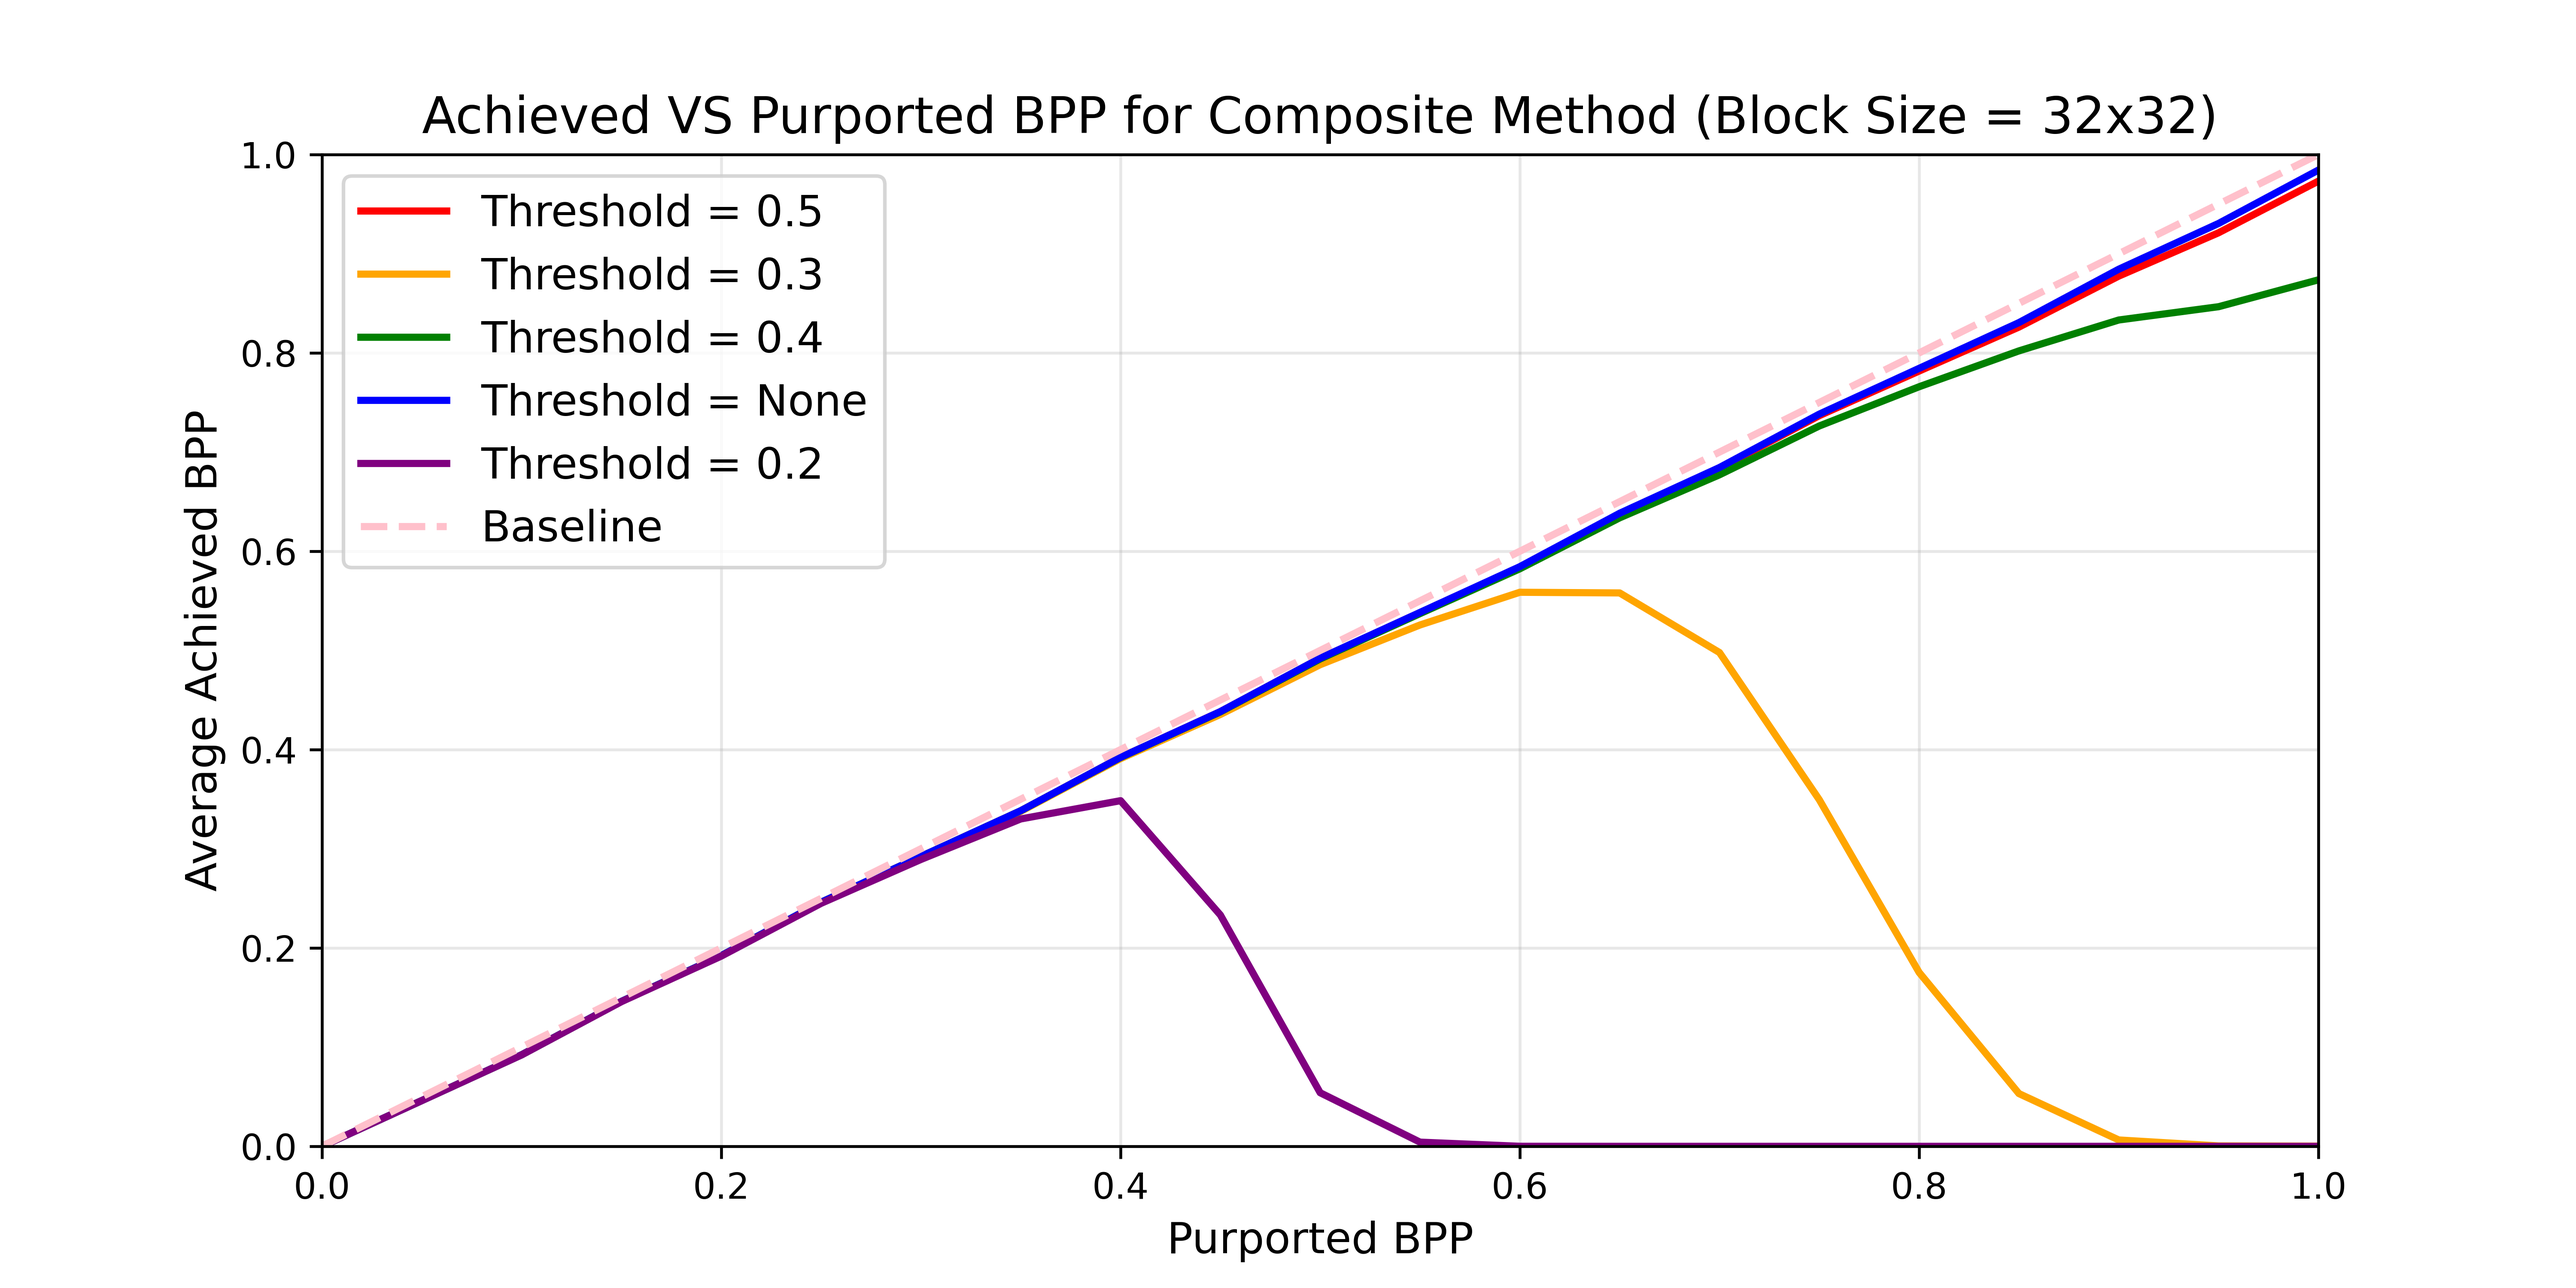
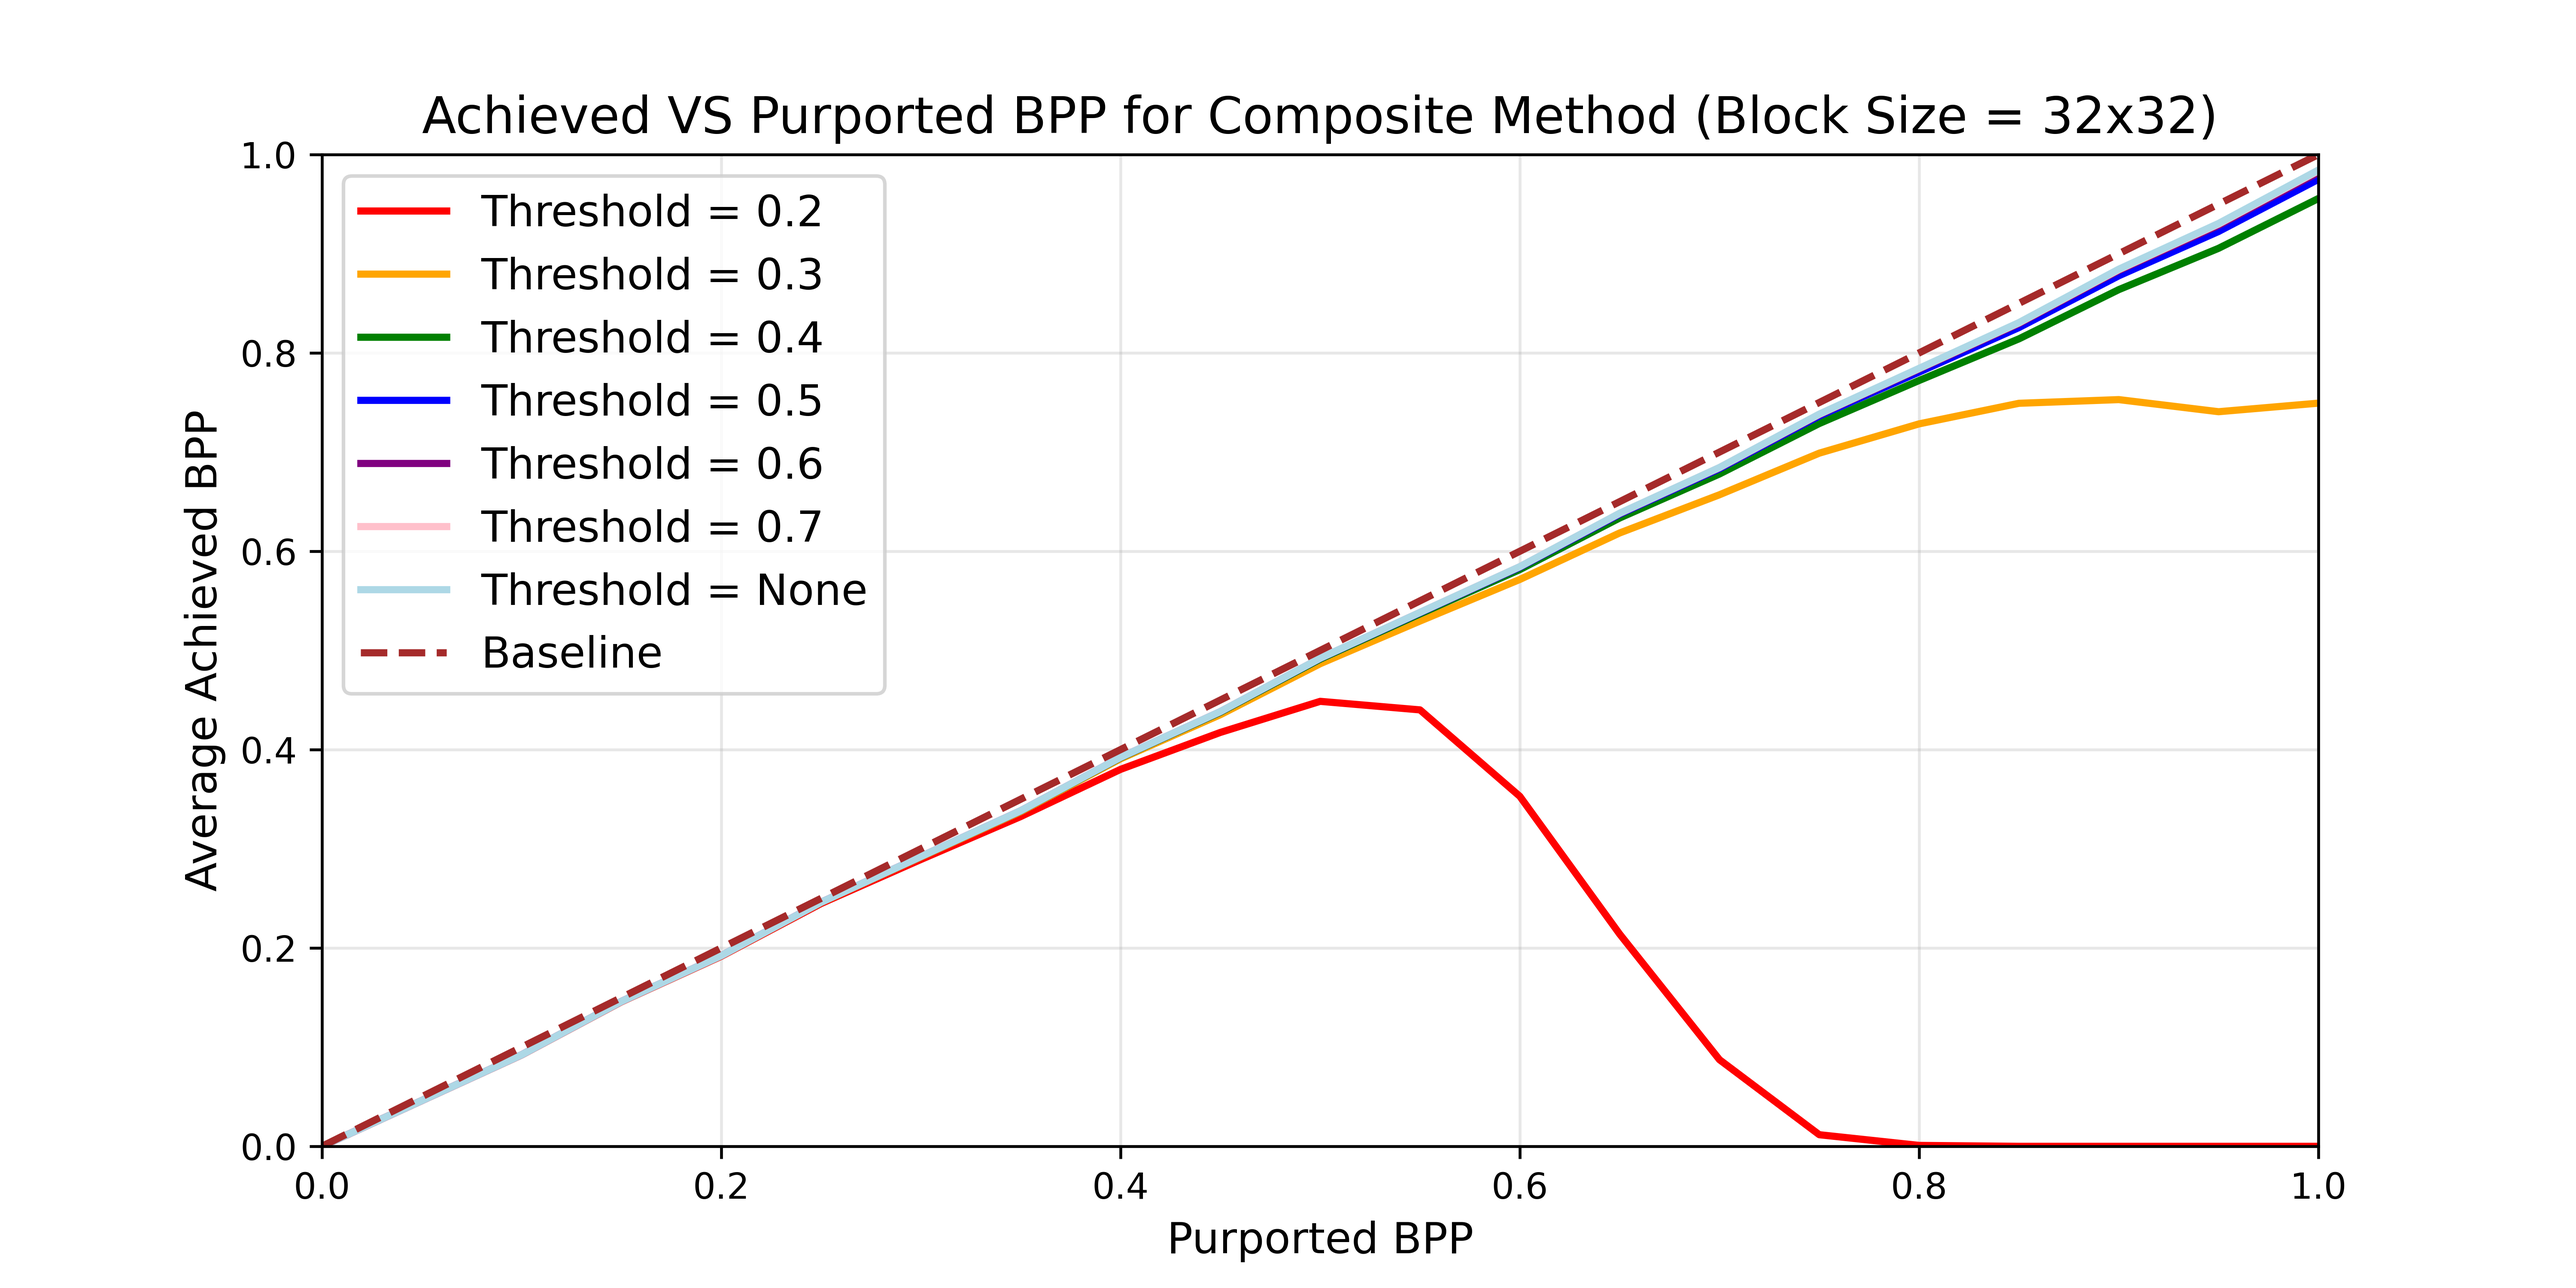
Reran Equation Search, AchievedVSPurported Graphs
- Reran the equation search with the new SRM models
- Generated Achieved VS Purported graphs for 0.2-0.7 at Step 5
    - May rerun overnight with Step 2
- Started setting up SRNet, not in commit yet

diff --git a/Adaptive Embedding Scripts/FindCompositeThresholdAverages.py b/Adaptive Embedding Scripts/FindCompositeThresholdAverages.py
@@ -1,0 +1,63 @@
+import numpy as np
+from math import inf, floor
+from Helpers.HelperFunctions import *
+from concurrent.futures import ProcessPoolExecutor
+from Helpers.CompositeImplementation import CompositeMethod
+
+SETUP_PATHS = GetPaths()
+SET_A = SETUP_PATHS["Bossbase Set A"]
+LIPSUM = SETUP_PATHS["Lipsum"]
+
+IMAGE_SIZE = 256
+BLOCK_SIZES = [32, 64, 128]
+MAX_WORKERS = 10
+BPP = 1.0
+
+def ProcessImg(args):
+    path, secret, bytesPerSection, blocksPerSide = args
+    
+    _, _, t = CompositeMethod(
+        secret,
+        path,
+        bytesPerSection,
+        blocksPerSide,
+        inf,
+        reform=False
+    )
+    
+    return t
+   
+if __name__ == "__main__":
+    totalImageBytes = (IMAGE_SIZE ** 2) / 8
+    with open(LIPSUM, "r") as f:
+        secretTotal = f.read()
+    
+    for blockSize in BLOCK_SIZES:
+        
+        secretBytesAmount = floor(totalImageBytes * BPP)
+        secret = secretTotal[:secretBytesAmount]
+        bytesPerSection = floor(secretBytesAmount / ((IMAGE_SIZE // blockSize) ** 2))
+        
+        taskArgs = [
+            (
+                os.path.join(SET_A, f"{i}.png"),
+                secret,
+                bytesPerSection,
+                IMAGE_SIZE // blockSize
+            ) for i in range(1, 1001)
+        ]
+        
+        with ProcessPoolExecutor(max_workers=MAX_WORKERS) as exe:
+            results = list(exe.map(ProcessImg, taskArgs))
+            
+        bigList = []
+        for result in results:
+            bigList += result
+            
+        results = np.array(bigList, dtype=np.float64)
+        
+        print(f"For Block Size = {blockSize} @ Purported 1.0 BPP:")
+        print(f"    Mean    : {np.mean(results):.3f}")
+        print(f"    Median  : {np.median(results):.3f}")
+        print(f"    SD      : {np.std(results):.3f}")
+        print("\n")

diff --git a/Adaptive Embedding Scripts/Helpers/CompositeImplementation.py b/Adaptive Embedding Scripts/Helpers/CompositeImplementation.py
@@ -14,17 +14,17 @@ bytesPerSectionDefault = 512 #Currently an embed rate of 25%
 #0.17,1.11,0.04
 
 DEVIATION_COEFFICENTS = {
-    ("Chi Square Attack", 8)  : np.float32(0.050) / 0.997,
-    ("Chi Square Attack", 4)  : np.float32(0.002) / 0.988,
-    ("Chi Square Attack", 2)  : np.float32(0.019) / 0.952,
+    ("Chi Square Attack", 8)  : np.float32(0.005) / 0.997,
+    ("Chi Square Attack", 4)  : np.float32(0.008) / 0.988,
+    ("Chi Square Attack", 2)  : np.float32(0.025) / 0.952,
 
-    ("MSE", 8)  : np.float32(0.516) / 0.570,
-    ("MSE", 4)  : np.float32(0.450) / 0.547,
-    ("MSE", 2)  : np.float32(0.929) / 0.531,
+    ("MSE", 8)  : np.float32(0.389) / 0.570,
+    ("MSE", 4)  : np.float32(0.722) / 0.547,
+    ("MSE", 2)  : np.float32(0.969) / 0.531,
     
-    ("Zhang", 8)  : np.float32(0.434) / 1822,
-    ("Zhang", 4)  : np.float32(0.548) / 4826,
-    ("Zhang", 2)  : np.float32(0.052) / 12095
+    ("Zhang", 8)  : np.float32(0.606) / 1822,
+    ("Zhang", 4)  : np.float32(0.270) / 4826,
+    ("Zhang", 2)  : np.float32(0.006) / 12095
 }
 acceptableMappingThresholdDefault = 3
 blocksPerSideDefault = 4

diff --git a/Adaptive Embedding Scripts/EquationGridSearch.py b/Adaptive Embedding Scripts/EquationGridSearch.py
@@ -251,11 +251,11 @@ def StepTwo(processNumber = 1, blockSizes = [], granularity = 0.1, w1Start = 0, 
         },
     }
 
-    with open(os.path.join(srmFolder, "SRM Models", "LSBR.pkl"), "rb") as f:
+    with open(os.path.join(srmFolder, "Classifiers-A Models", "TrainedSRMEnsemble-Classifiers-A-LSBR.pkl"), "rb") as f:
         lsbrModel = pickle.load(f)
-    with open(os.path.join(srmFolder, "SRM Models", "LSBM.pkl"), "rb") as f:
+    with open(os.path.join(srmFolder, "Classifiers-A Models", "TrainedSRMEnsemble-Classifiers-A-LSBM.pkl"), "rb") as f:
         lsbmModel = pickle.load(f)
-    with open(os.path.join(srmFolder, "SRM Models", "PPM.pkl"), "rb") as f:
+    with open(os.path.join(srmFolder, "Classifiers-A Models", "TrainedSRMEnsemble-Classifiers-A-PPM.pkl"), "rb") as f:
         ppmModel = pickle.load(f)
 
     if(count == None):

diff --git a/Adaptive Embedding Scripts/PlotAchievedVsPurportedBPP.py b/Adaptive Embedding Scripts/PlotAchievedVsPurportedBPP.py
@@ -18,7 +18,7 @@ LIPSUM = SETUP_PATHS["Lipsum"]
 SAVE_PATH = SETUP_PATHS["Achieved VS Purported BPP Save Folder"]
 GRAPHS = SETUP_PATHS["Graphs"]
 
-THRESHOLDS = [0.2, 0.3, 0.4, 0.5, inf]
+THRESHOLDS = [0.2, 0.3, 0.4, 0.5, 0.6, 0.7, inf]
 IMAGE_SIZE = 256
 BLOCK_SIZES = [32, 64, 128]
 MAX_WORKERS = 10
@@ -38,12 +38,6 @@ def ProcessImg(args):
         reform=False #No point reforming, not doing it is faster
     )
     
-    """
-    t = np.asarray(t)
-    print(f"Mean : {np.mean(t)}, Median : {np.median(t)}, SD : {np.std(t)}")
-    assert 1==2
-    """
-
     LSBRs = counts[1]
     LSBMs = counts[2]
     PPMs = counts[3]
